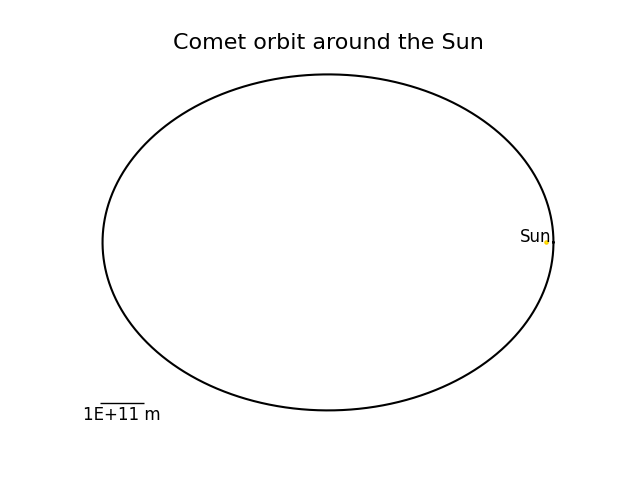
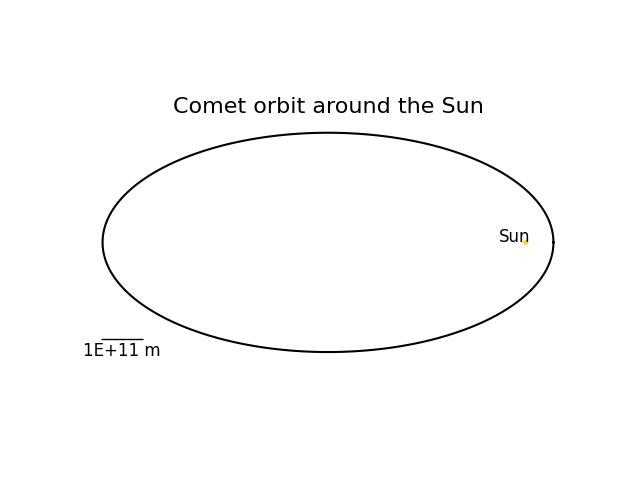
Updated limits

diff --git a/comet.py b/comet.py
@@ -13,7 +13,7 @@ M = 1.9 * (10 ** 30)
 G = 6.67 * (10 ** (-11))
 
 R_0_DEFAULT = 10 ** 12
-V_0_DEFAULT = 2000
+V_0_DEFAULT = 4000
 ALPHA_DEFAULT = np.pi / 2
 
 prev_point1 = None
@@ -30,6 +30,7 @@ def polar_to_cartesian(rho, theta):
 
 
 def init_plot1():
+    axes.set_aspect('equal', 'box')
     axes.set_title("Comet orbit around the Sun", size=16)
     axes.axis("off")
     axes.plot(x, y, c="#000000")
@@ -44,7 +45,6 @@ def init_plot1():
 
     axes.add_artist(scalebar)
     axes.annotate("Sun", (0, 0), xytext=(-26, 0), textcoords="offset pixels", fontproperties=fontprops)
-    return axes
 
 
 def animate_plot1(i):
